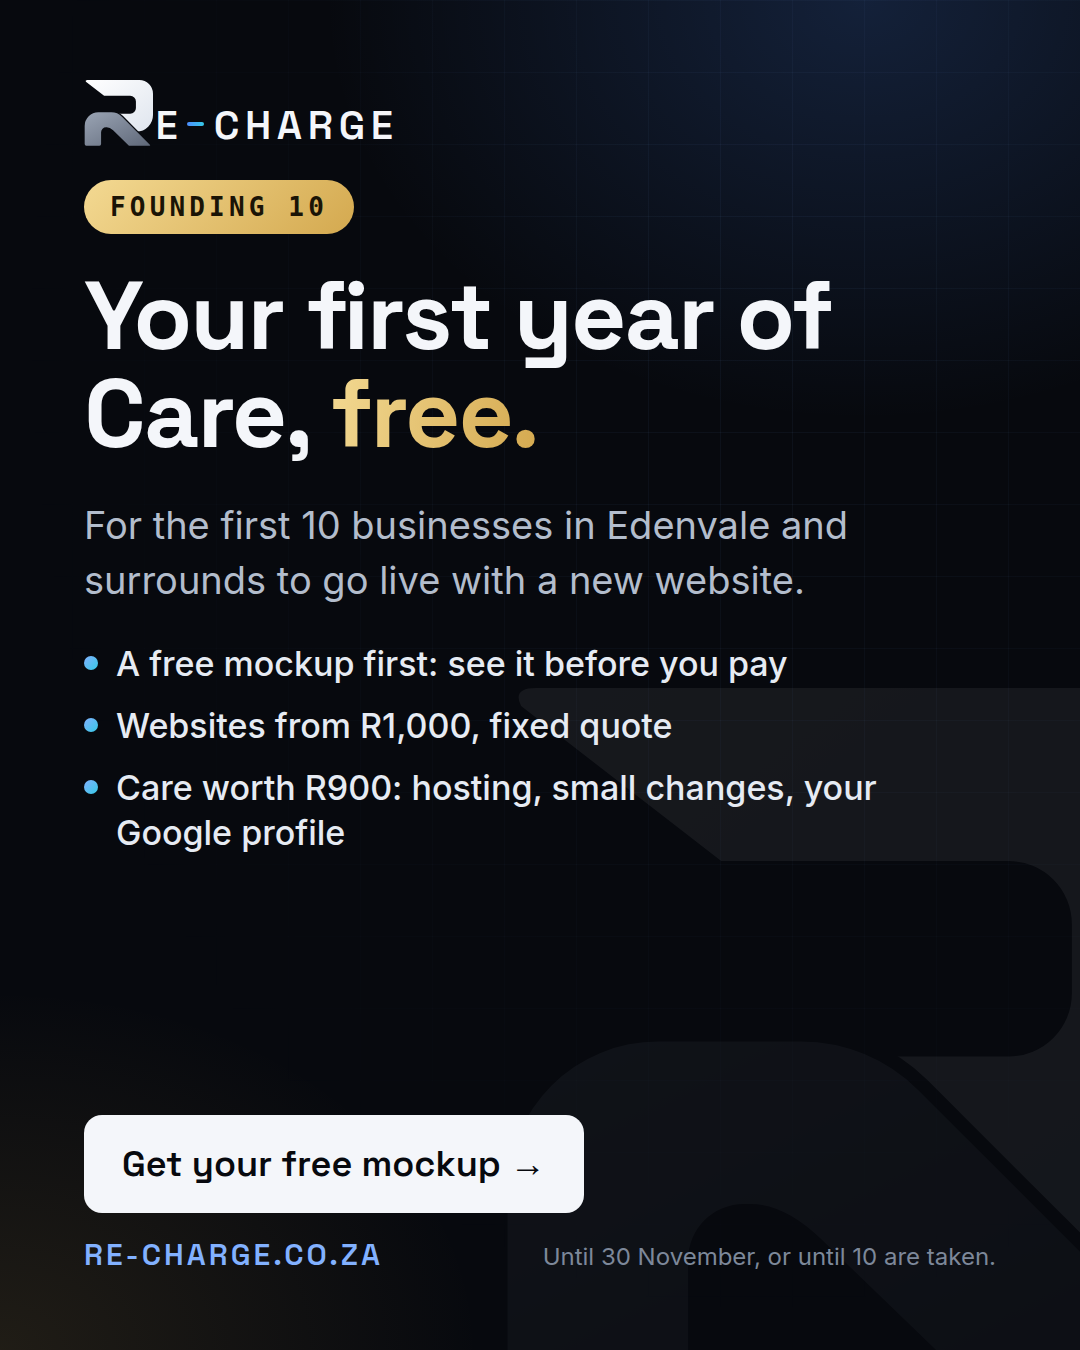
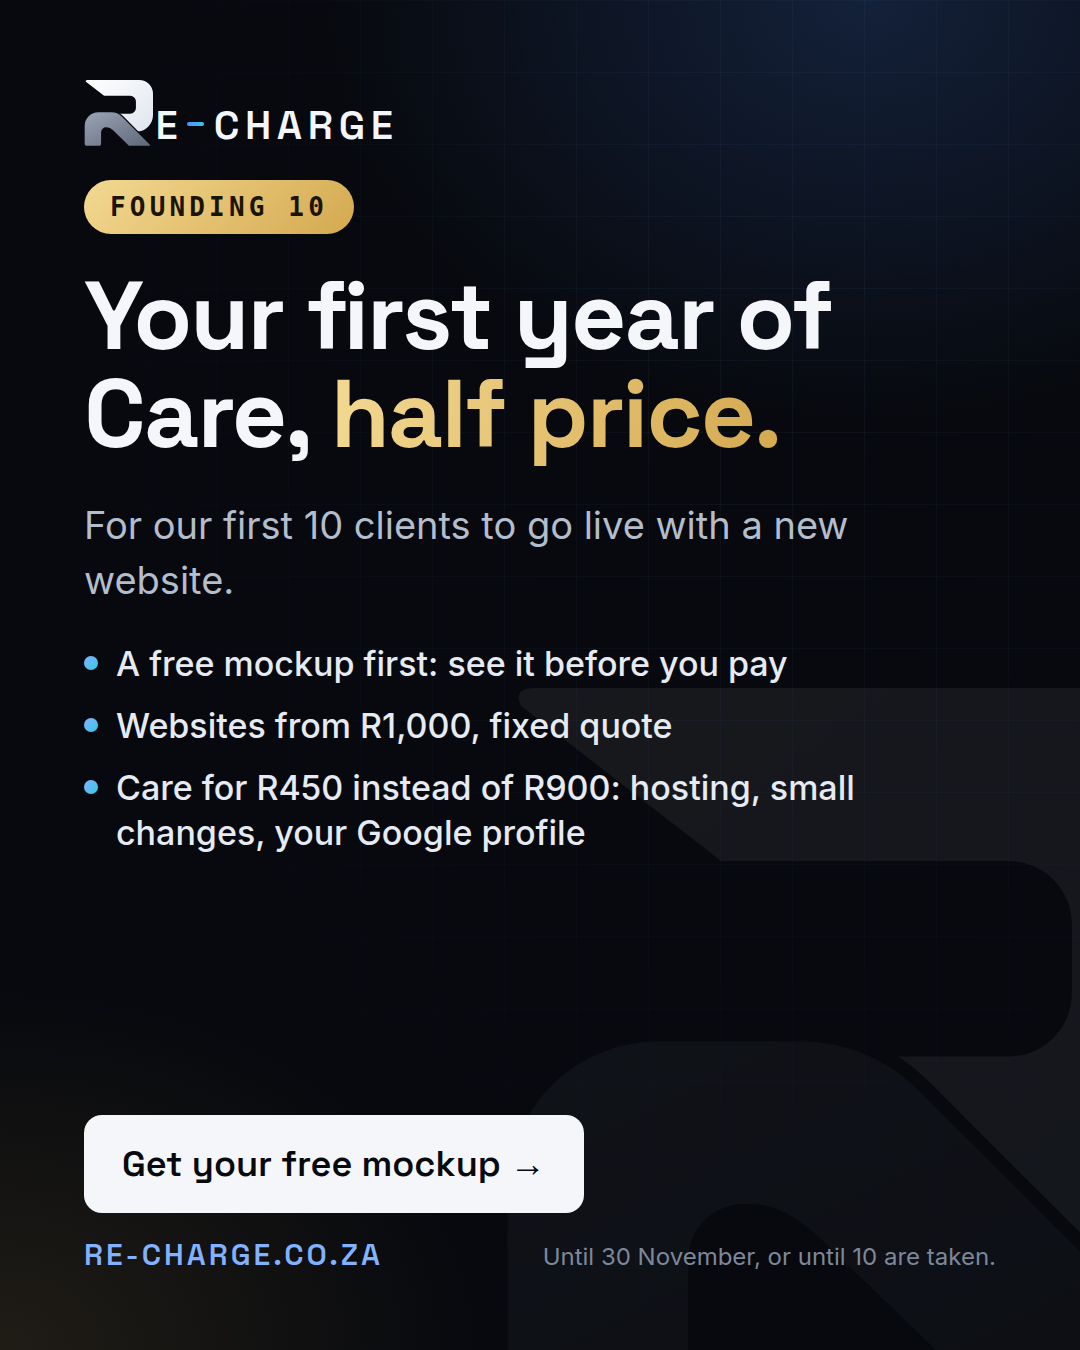
Founding 10: first N clients (no area), discounted first year of Care (default 50%) instead of free
Claude-Session: https://claude.ai/code/session_01M1NKcTwKaxVh1QCPGxnW1z

Changed region(s): [[0.0611, 0.3733, 0.7944, 0.4667], [0.0917, 0.56, 0.825, 0.6533], [0.3056, 0.28, 0.7333, 0.3422]]

diff --git a/admin/admin.js b/admin/admin.js
@@ -222,13 +222,16 @@ const KIND_LABEL = { deposit: "Deposit", balance: "Balance", care: "Care plan", 
 const PLAN_LABEL = { hosting: "Hosting", care: "Care", business: "Business Care" };
 // Limited offer (Settings → Limited offer; the site banner reads it through the
 // public `offer` function). A spot is taken when a lead on the offer pays the deposit.
-const DEFAULT_OFFER = { active: false, code: "founding", total: 10, ends: "2026-11-30", area: "Edenvale and surrounds" };
+const DEFAULT_OFFER = { active: false, code: "founding", total: 10, ends: "2026-11-30", discount: 50 };
 function offerNow() {
   const o = S.offer || DEFAULT_OFFER;
   const on = S.projects.filter((p) => p.details?.offer === o.code);
   const taken = on.filter((p) => p.deposit_paid).length, left = Math.max(0, (Number(o.total) || 0) - taken);
   const ended = o.ends && o.ends < localDate();
-  return { ...o, name: `Founding ${o.total}`, taken, left, leads: on.length, ended, live: Boolean(o.active) && left > 0 && !ended };
+  const discount = Math.max(5, Math.min(100, Math.round(Number(o.discount) || 50)));
+  const carePrice = Math.round(PLAN_PRICE.care * (100 - discount) / 100);
+  const deal = discount >= 100 ? "their first year of Care free" : `${discount}% off their first year of Care (${money(carePrice)} instead of ${money(PLAN_PRICE.care)})`;
+  return { ...o, discount, carePrice, deal, name: `Founding ${o.total}`, taken, left, leads: on.length, ended, live: Boolean(o.active) && left > 0 && !ended };
 }
 const onOffer = (p) => Boolean(p?.details?.offer) && p.details.offer === (S.offer?.code || "founding");
 // Current yearly prices (pricing page). Existing clients keep what they pay (care_amount_cents);
@@ -734,7 +737,7 @@ async function renderProject(id, q = new URLSearchParams()) {
   const isSite = (p.category || []).some((c) => /website|mockup/i.test(c)) || /website|site\b/i.test(p.details?.projectType || "") || sourceOf(p) === "outreach";
   const items = Array.isArray(p.quote_items) && p.quote_items.length ? p.quote_items
     : p.quote_cents ? [{ desc: "", cents: p.quote_cents }]
-    : isSite ? [{ desc: "", cents: 0 }, onOffer(p) ? { desc: `Care plan, first year: free (Founding ${S.offer?.total || 10} offer, worth R900)`, cents: 0 } : { desc: "Care plan, first year (hosting, small changes, Google profile)", cents: PLAN_PRICE.care }]
+    : isSite ? [{ desc: "", cents: 0 }, onOffer(p) ? (() => { const o = offerNow(); return { desc: `Care plan, first year (Founding ${o.total}: ${o.discount}% off, normally ${money(PLAN_PRICE.care)})`, cents: o.carePrice }; })() : { desc: "Care plan, first year (hosting, small changes, Google profile)", cents: PLAN_PRICE.care }]
     : [{ desc: "", cents: 0 }];
   const mins = minutesFor(id);
   const d = p.details || {};
@@ -867,7 +870,7 @@ async function renderProject(id, q = new URLSearchParams()) {
           <div class="row2"><label>Business<input name="business" value="${esc(p.business || "")}" /></label><label>Contact name<input name="name" value="${esc(p.name || "")}" /></label></div>
           <div class="row2"><label>Email<input type="email" name="email" value="${esc(p.email || "")}" /></label><label>Phone / WhatsApp<input type="tel" name="phone" value="${esc(p.phone || "")}" /></label></div>
           <div class="row2"><label>Where they're based<input name="location" value="${esc(p.location || "")}" placeholder="e.g. Edenvale, Gauteng" /></label><label>Their current website<input inputmode="url" name="website" value="${esc(p.website || "")}" placeholder="None yet" /></label></div>
-          ${S.offer?.active || onOffer(p) ? `<label class="check"><input type="checkbox" name="on_offer" ${onOffer(p) ? "checked" : ""} /> On the Founding ${esc(S.offer?.total || 10)} offer (first year of Care free; takes a spot when they pay the deposit)</label>` : ""}
+          ${S.offer?.active || onOffer(p) ? `<label class="check"><input type="checkbox" name="on_offer" ${onOffer(p) ? "checked" : ""} /> On the Founding ${esc(S.offer?.total || 10)} offer (${esc(offerNow().discount)}% off their first year of Care; takes a spot when they pay the deposit)</label>` : ""}
           <label>Google profile link <span class="muted" style="font-weight:400">(optional: open them on Google Maps, tap Share, paste the link)</span><input inputmode="url" name="google_url" value="${esc(p.details?.googleUrl || "")}" placeholder="https://maps.app.goo.gl/…" /></label>
           <div class="row2"><label>How good a fit?<select name="potential">${potOptions(p.potential)}</select></label><label>Found them via<select name="source">${Object.entries(SOURCES).map(([v, l]) => `<option value="${v}"${v === sourceOf(p) ? " selected" : ""}>${esc(l)}</option>`).join("")}</select></label></div>
           <div class="row2"><label>Google rating<input name="rating" inputmode="decimal" value="${esc(p.rating ?? "")}" placeholder="e.g. 4.6" /></label><label>Number of Google reviews<input name="review_count" inputmode="numeric" value="${esc(p.review_count ?? "")}" placeholder="e.g. 120" /></label></div>
@@ -1198,7 +1201,7 @@ function ctxFor(p) {
     start_link: "https://re-charge.co.za/start", mockup_link: "https://re-charge.co.za/free-mockup" + (p?.business ? "?b=" + encodeURIComponent(p.business) : ""), preview_link: p?.preview_url || "", review_link: pr.review_link || "",
     opportunity: p?.potential_note || (p && ownSite(p) ? "a new website that works properly on phones" : "a website"), their_website: p?.website || "",
     noticed: noticedLine(p),
-    offer_line: (() => { const o = offerNow(); return o.live ? `This month I'm taking on ${o.total} founding clients${o.area ? " in " + o.area : ""}: their first year of Care (hosting, small changes and their Google profile, worth R900) is free. ${o.left} spot${o.left === 1 ? "" : "s"} left.` : ""; })(),
+    offer_line: (() => { const o = offerNow(); return o.live ? `I'm taking on ${o.total} founding clients at the moment: they get ${o.deal}, which covers hosting, small changes and their Google profile. ${o.left} spot${o.left === 1 ? "" : "s"} left.` : ""; })(),
     referral_link: referralLink(clientById(p?.client_id || p?._client_id)),
     their_review_link: clientById(p?.client_id || p?._client_id)?.google_review_url || "",
     location: p?.location || "", in_area: p?.location ? " in " + p.location.split(",")[0].trim() : "", balance: p?.id ? money(balanceDue(p) || p.quote_cents || 0) : "",
@@ -1734,11 +1737,11 @@ function renderSettings() {
   </div>
   <div class="adm-set-col">
 <div class="adm-card" id="offerCard"><h2>Limited offer</h2>${(() => { const o = offerNow(); return `
-    <p class="small muted">The first ${esc(o.total)} businesses${o.area ? " in " + esc(o.area) : ""} get their first year of Care free (worth R900). A spot is taken when they pay the deposit. While it's on, the site shows a banner with the real number of spots left, new leads are tagged, and their quotes include the free Care year. It switches itself off when it's full or the date passes.</p>
+    <p class="small muted">Your first ${esc(o.total)} clients get ${esc(o.deal)}. A spot is taken when they pay the deposit. While it's on, the site shows a banner with the real number of spots left, new leads are tagged, and their quotes include the discounted Care year. It switches itself off when it's full or the date passes.</p>
     <p class="small" style="margin-top:0.4rem"><b>${o.live ? `${o.left} of ${o.total} spots left` : o.active ? (o.left ? "Ended" : "Full") : "Off"}</b>${o.leads ? ` · ${o.leads} lead${o.leads === 1 ? "" : "s"} on the offer, ${o.taken} paid` : ""}${o.ends ? ` · ends ${esc(fmtD(o.ends + "T12:00:00"))}` : ""}</p>
     <form class="adm-form" id="offerForm" style="margin-top:0.5rem">
       <div class="row2"><label>Spots<input name="total" inputmode="numeric" value="${esc(o.total)}" /></label><label>Ends on<input type="date" name="ends" value="${esc(o.ends || "")}" /></label></div>
-      <label>Area<input name="area" value="${esc(o.area || "")}" placeholder="e.g. Edenvale and surrounds" /></label>
+      <label>Discount on their first year of Care (%)<input name="discount" inputmode="numeric" value="${esc(o.discount)}" /><span class="tiny muted">% off R900: 50 means R450 for the first year</span></label>
       <div class="btn-row" style="justify-content:space-between"><label class="check" style="margin:0"><input type="checkbox" name="active" ${o.active ? "checked" : ""} /> Offer switched on</label><button class="btn btn--primary btn--small" type="submit">Save</button></div>
     </form>`; })()}</div>
 <div class="adm-card"><h2>Website monitoring</h2>
@@ -1772,7 +1775,9 @@ function renderSettings() {
   $("offerForm")?.addEventListener("submit", async (e) => {
     e.preventDefault(); const f = e.target;
     const total = Math.max(1, Math.min(100, parseInt(f.total.value, 10) || 10));
-    const value = { ...S.offer, active: f.active.checked, total, ends: f.ends.value || "", area: f.area.value.trim() };
+    const discount = Math.max(5, Math.min(100, parseInt(f.discount.value, 10) || 50));
+    const { area, ...rest } = S.offer; void area;
+    const value = { ...rest, active: f.active.checked, total, ends: f.ends.value || "", discount };
     try { await api.settings.set("offer", value); S.offer = value; toast(value.active ? "Offer saved: the site banner updates within 5 minutes" : "Offer switched off"); renderSettings(); }
     catch (ex) { toast(ex.message, true); }
   });

diff --git a/script.js b/script.js
@@ -66,11 +66,12 @@ const CONFIG = window.RECHARGE_CONFIG || {};
   fetch(CONFIG.OFFER_ENDPOINT).then((r) => r.ok ? r.json() : null).then((o) => {
     if (!o || !o.active) return;
     const spots = o.left + ' of ' + o.total + ' spot' + (o.total === 1 ? '' : 's') + ' left';
-    const where = o.area ? ' in ' + o.area : '';
+    const off = Number(o.discount) || 50, carePrice = Math.round(900 * (100 - off) / 100);
+    const deal = off >= 100 ? 'your first year of Care free' : off + '% off your first year of Care (R' + carePrice + ' instead of R900)';
     const ends = o.ends ? new Date(o.ends + 'T12:00:00').toLocaleDateString('en-ZA', { day: 'numeric', month: 'long' }) : '';
     const href = 'free-mockup?src=' + encodeURIComponent(o.code + o.total);
     document.querySelectorAll('[data-offer-note]').forEach((el) => {
-      el.innerHTML = '<span class="offer-note__tag">' + o.name + '</span><p><strong>The first ' + o.total + ' businesses' + where + ' get their first year of Care free (worth R900).</strong> Your website is still from R1,000, with a free mockup first. ' + spots + (ends ? ', until ' + ends : '') + '. A spot is yours when you accept your quote and pay the deposit.</p>';
+      el.innerHTML = '<span class="offer-note__tag">' + o.name + '</span><p><strong>Our first ' + o.total + ' clients get ' + deal + '.</strong> Your website is still from R1,000, with a free mockup first. ' + spots + (ends ? ', until ' + ends : '') + '. A spot is yours when you accept your quote and pay the deposit.</p>';
       el.hidden = false;
     });
     let closed = 0; try { closed = Number(localStorage.getItem(KEY)) || 0; } catch (e) { /* storage blocked */ }
@@ -78,7 +79,7 @@ const CONFIG = window.RECHARGE_CONFIG || {};
     const bar = document.createElement('div');
     bar.className = 'offer-bar';
     bar.setAttribute('role', 'region'); bar.setAttribute('aria-label', 'Limited offer');
-    bar.innerHTML = '<div class="container offer-bar__inner"><a class="offer-bar__link" href="' + href + '"><span class="offer-bar__tag">' + o.name + '</span><span class="offer-bar__text"><span class="offer-bar__long">The first ' + o.total + ' businesses' + where + ' get their first year of Care free. </span><span class="offer-bar__short">First year of Care free · </span><b>' + spots + '</b></span><span class="offer-bar__cta">Get a free mockup →</span></a><button type="button" class="offer-bar__x" aria-label="Hide the offer">×</button></div>';
+    bar.innerHTML = '<div class="container offer-bar__inner"><a class="offer-bar__link" href="' + href + '"><span class="offer-bar__tag">' + o.name + '</span><span class="offer-bar__text"><span class="offer-bar__long">Our first ' + o.total + ' clients get ' + (off >= 100 ? 'their first year of Care free' : off + '% off their first year of Care') + '. </span><span class="offer-bar__short">' + (off >= 100 ? 'Care free' : off + '% off Care') + ' · </span><b>' + spots + '</b></span><span class="offer-bar__cta">Get a free mockup →</span></a><button type="button" class="offer-bar__x" aria-label="Hide the offer">×</button></div>';
     bar.querySelector('.offer-bar__x').addEventListener('click', () => { bar.remove(); try { localStorage.setItem(KEY, String(Date.now())); } catch (e) { /* ignore */ } });
     const nav = document.querySelector('header.nav');
     (nav ? nav.parentNode : document.body).insertBefore(bar, nav || document.body.firstChild);

diff --git a/supabase/functions/_shared/offer.ts b/supabase/functions/_shared/offer.ts
@@ -1,9 +1,10 @@
-// The current limited offer (Settings → Limited offer in the panel), with the
+// The current limited offer (Settings → Limited offer in the panel): a % off
+// the first year of Care for the first N clients, with the
 // real number of spots left: a spot is taken when a lead on the offer pays its
 // deposit. The offer switches itself off when it's full or past its end date.
 import type { SupabaseClient } from "https://esm.sh/@supabase/supabase-js@2.45.4";
 
-export type Offer = { active: boolean; code: string; name: string; total: number; taken: number; left: number; ends: string; area: string };
+export type Offer = { active: boolean; code: string; name: string; total: number; taken: number; left: number; ends: string; discount: number };
 
 export async function offerStatus(db: SupabaseClient): Promise<Offer> {
   const { data } = await db.from("settings").select("value").eq("key", "offer").maybeSingle();
@@ -11,9 +12,10 @@ export async function offerStatus(db: SupabaseClient): Promise<Offer> {
   const code = typeof v.code === "string" && /^[a-z0-9-]{2,40}$/.test(v.code) ? v.code : "founding";
   const total = Math.max(0, Math.min(1000, Math.round(Number(v.total) || 0)));
   const ends = typeof v.ends === "string" && /^\d{4}-\d{2}-\d{2}$/.test(v.ends) ? v.ends : "";
-  const area = typeof v.area === "string" ? v.area.slice(0, 80) : "";
+  // % off the first year of Care (50 = R450 instead of R900)
+  const discount = Math.max(5, Math.min(100, Math.round(Number(v.discount) || 50)));
   const { count } = await db.from("projects").select("id", { count: "exact", head: true }).eq("details->>offer", code).eq("deposit_paid", true);
   const taken = count ?? 0, left = Math.max(0, total - taken);
   const today = new Date(Date.now() + 2 * 3600e3).toISOString().slice(0, 10);   // SAST
-  return { active: v.active === true && total > 0 && left > 0 && (!ends || ends >= today), code, name: typeof v.name === "string" && v.name ? v.name.slice(0, 40) : `Founding ${total}`, total, taken, left, ends, area };
+  return { active: v.active === true && total > 0 && left > 0 && (!ends || ends >= today), code, name: typeof v.name === "string" && v.name ? v.name.slice(0, 40) : `Founding ${total}`, total, taken, left, ends, discount };
 }

diff --git a/admin/mock.js b/admin/mock.js
@@ -75,7 +75,7 @@ const monitors = [
 
 const templates = [];
 const messages = [];
-const settings = { offer: { active: true, code: "founding", total: 10, ends: "2026-11-30", area: "Edenvale and surrounds" }, autobuild: { auto_queue: false }, profile: { my_name: "Revan", reply_to: "enquiry.re.charge@gmail.com", whatsapp: "27722375833", bcc_me: true, signature: "Revan\nRe-Charge · re-charge.co.za\nWhatsApp 072 237 5833", review_link: "", deposit_link: "https://pay.yoco.com/r/pvvar8" } };
+const settings = { offer: { active: true, code: "founding", total: 10, ends: "2026-11-30", discount: 50 }, autobuild: { auto_queue: false }, profile: { my_name: "Revan", reply_to: "enquiry.re.charge@gmail.com", whatsapp: "27722375833", bcc_me: true, signature: "Revan\nRe-Charge · re-charge.co.za\nWhatsApp 072 237 5833", review_link: "", deposit_link: "https://pay.yoco.com/r/pvvar8" } };
 projects[4].client_id = clients[0].id; projects[3].client_id = clients[1].id;
 const campaigns = [
   { id: uid(), name: "Durban salons — September", code: "fb-durban-salons", goal: "10 mockup requests", audience: "Hair & beauty salons in Durban with no website", channels: ["facebook", "instagram"], status: "active", starts_on: new Date(now - 10 * 864e5).toISOString().slice(0, 10), ends_on: new Date(now + 20 * 864e5).toISOString().slice(0, 10), budget_cents: 150000, spend_cents: 42000, reach: 8400, clicks: 96, notes: null, created_at: ago(240), updated_at: ago(240) },

diff --git a/supabase/functions/offer/index.ts b/supabase/functions/offer/index.ts
@@ -10,7 +10,7 @@ Deno.serve(async (req) => {
   let body: Record<string, unknown> = { active: false };
   try {
     const o = await offerStatus(serviceClient());
-    body = o.active ? { active: true, name: o.name, total: o.total, left: o.left, ends: o.ends, area: o.area, code: o.code } : { active: false };
+    body = o.active ? { active: true, name: o.name, total: o.total, left: o.left, ends: o.ends, discount: o.discount, code: o.code } : { active: false };
   } catch (e) { console.error("offer failed:", e); }
   return new Response(JSON.stringify(body), { headers: { ...corsHeaders, "Access-Control-Allow-Methods": "GET, POST, OPTIONS", "Content-Type": "application/json", "Cache-Control": "public, max-age=300" } });
 });

diff --git a/ADMIN.md b/ADMIN.md
@@ -898,16 +898,15 @@ The ready-made messages were rewritten so they don't read like a mail merge:
 - Today only mentions a monthly client when a payment is more than 4 days late.
 
 ### 8u. Limited offer: "Founding 10" (2026-09-29)
-- **Settings → Limited offer:** spots (10), end date (30 Nov), area. The first N businesses get
-  their first year of Care free (worth R900); a spot is taken when a lead on the offer **pays the
-  deposit**. The offer switches itself off when it's full or the date passes.
+- **Settings → Limited offer:** spots (10), end date (30 Nov), and the discount on the first year
+  of Care (default 50%: R450 instead of R900). No area: it's simply the first N clients. A spot is
+  taken when a lead on the offer **pays the deposit**. The offer switches itself off when it's full or the date passes.
 - **Site:** a slim gold banner above the nav on every page ("Founding 10 · … 7 of 10 spots left ·
   Get a free mockup →", closable for 3 days) and a note on Pricing and Free mockup. The numbers
   come from the public, read-only `offer` function (cached 5 minutes), so they're always real.
   Banner clicks are tagged `?src=founding10`.
 - **Leads:** anyone who enquires while it runs is tagged (a gold *Founding 10* chip); tick or untick
-  it under Details for leads who replied by phone/WhatsApp. Their quote opens with *Care plan, first
-  year: free* at R0. `{{offer_line}}` adds one sentence about the offer (with spots left) to the
+  it under Details for leads who replied by phone/WhatsApp. Their quote opens with the discounted *Care plan, first year* line (R450 at 50%). `{{offer_line}}` adds one sentence about the offer (with spots left) to the
   two main first-contact messages while it runs, and disappears when it ends.
 - Forms can no longer set reserved lead fields (offer, referral, Standard) themselves.
 

diff --git a/marketing/founding10.md b/marketing/founding10.md
@@ -16,22 +16,22 @@ Customers look you up before they call. No website, and many of them call the ne
 
 We'll build you a free mockup of your website first, so you can see it before you spend a cent.
 
-The first 10 businesses in Edenvale and surrounds to go live get their first year of Care free
-(worth R900): hosting, small changes and your Google profile looked after.
+Our first 10 clients to go live get 50% off their first year of Care (R450 instead of R900):
+hosting, small changes and your Google profile looked after.
 
-**Headline:** Your first year of Care, free
+**Headline:** Your first year of Care, half price
 **Description:** Websites from R1,000. Free mockup first.
 **Button:** Learn more (or "Send WhatsApp message")
 
 ## WhatsApp Status caption
-Building websites for 10 local businesses this season, and their first year of Care is on me.
+Taking on 10 founding clients: half price on their first year of Care (R450 instead of R900).
 Free mockup first, so you see it before you pay. Message me or tap: re-charge.co.za/free-mockup
 
-## Community group post (Edenvale / Bedfordview / East Rand groups)
+## Community group post (local Facebook groups)
 Hi everyone, I'm Revan, and I build websites for small businesses in the area.
 
-For the next 10 local businesses I work with, the first year of Care is free (hosting, small
-changes, and keeping your Google profile up to date, worth R900). I'll also make you a free mockup
+For my next 10 clients, the first year of Care is half price: R450 instead of R900 (hosting,
+small changes, and keeping your Google profile up to date). I'll also make you a free mockup
 first, so you can see exactly what you'd get before you pay anything.
 
 Sites start at R1,000, with a fixed quote up front. If you'd like one, comment or send me a
